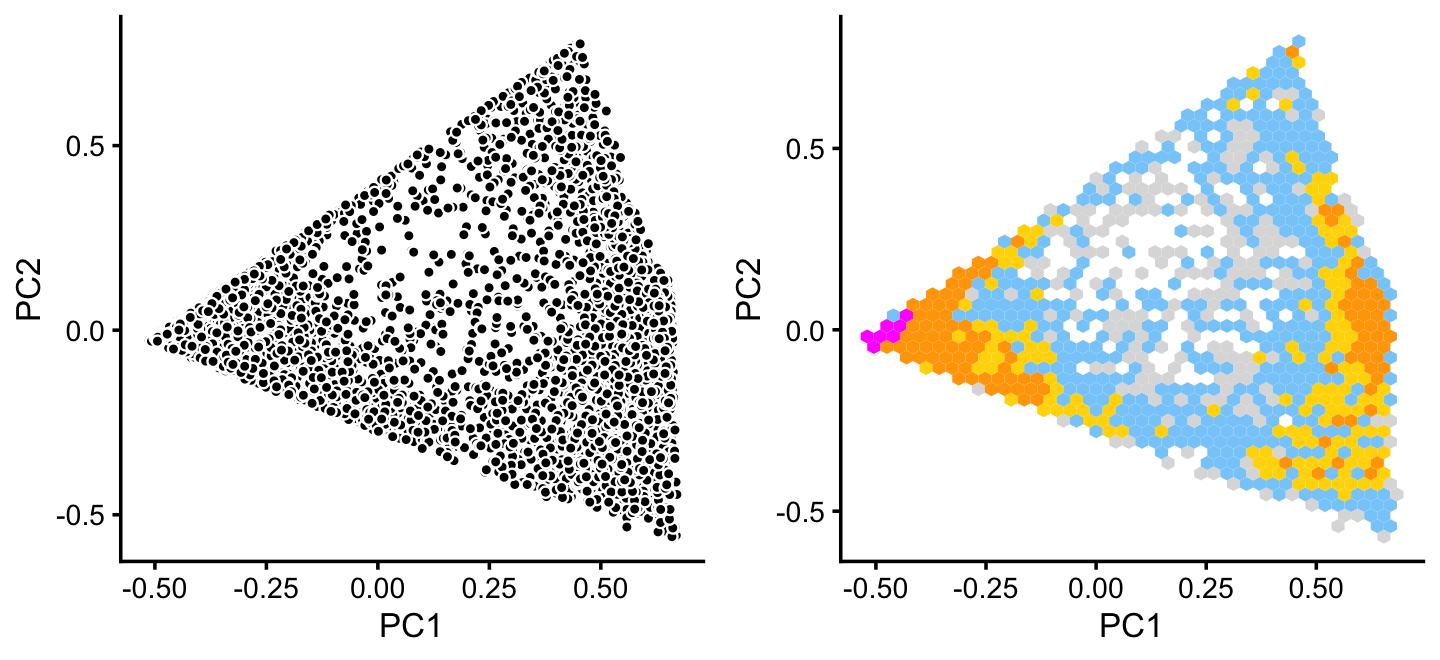
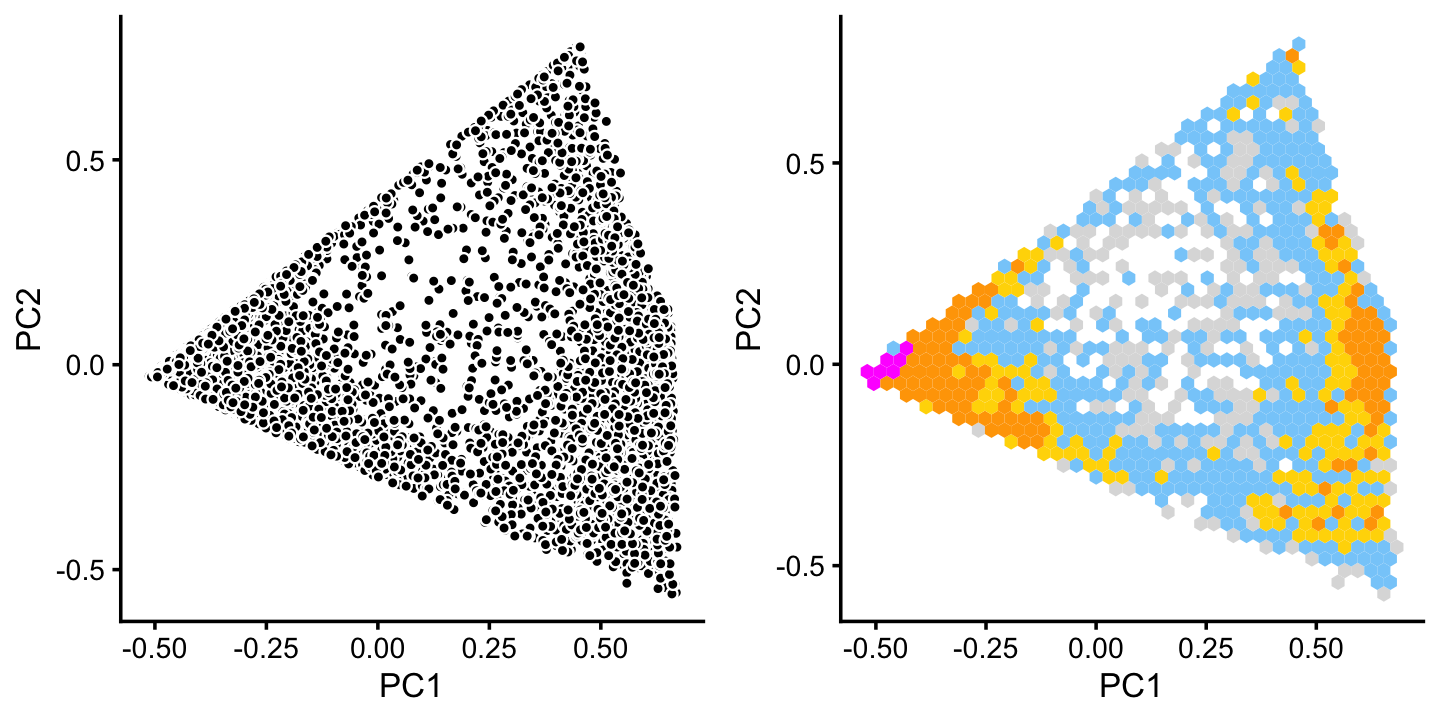
Adjusted the plots in clusters_droplet analysis.

diff --git a/docs/clusters_droplet.html b/docs/clusters_droplet.html
@@ -414,22 +414,23 @@ This reproducible <a href="http://rmarkdown.rstudio.com">R Markdown</a> analysis
 <div class="panel panel-default">
 <div class="panel-heading">
 <p class="panel-title">
-<a data-toggle="collapse" data-parent="#workflowr-checks" href="#strongRepositoryversionstrongahrefhttpsgithubcomstephenslabsinglecelltopicstreeba90d80ea27ae477a88f163d39168e4899633622targetblankba90d80a"> <span class="glyphicon glyphicon-ok text-success" aria-hidden="true"></span> <strong>Repository version:</strong> <a href="https://github.com/stephenslab/single-cell-topics/tree/ba90d80ea27ae477a88f163d39168e4899633622" target="_blank">ba90d80</a> </a>
+<a data-toggle="collapse" data-parent="#workflowr-checks" href="#strongRepositoryversionstrongahrefhttpsgithubcomstephenslabsinglecelltopicstree7830b35c5dfc1d2d27060e5c2f85c7abaf784745targetblank7830b35a"> <span class="glyphicon glyphicon-ok text-success" aria-hidden="true"></span> <strong>Repository version:</strong> <a href="https://github.com/stephenslab/single-cell-topics/tree/7830b35c5dfc1d2d27060e5c2f85c7abaf784745" target="_blank">7830b35</a> </a>
 </p>
 </div>
[2 lines of base64/hex data omitted]
 <div class="panel-body">
 <p>
 Great! You are using Git for version control. Tracking code development and connecting the code version to the results is critical for reproducibility.
 </p>
 <p>
-The results in this page were generated with repository version <a href="https://github.com/stephenslab/single-cell-topics/tree/ba90d80ea27ae477a88f163d39168e4899633622" target="_blank">ba90d80</a>. See the <em>Past versions</em> tab to see a history of the changes made to the R Markdown and HTML files.
+The results in this page were generated with repository version <a href="https://github.com/stephenslab/single-cell-topics/tree/7830b35c5dfc1d2d27060e5c2f85c7abaf784745" target="_blank">7830b35</a>. See the <em>Past versions</em> tab to see a history of the changes made to the R Markdown and HTML files.
 </p>
 <p>
 Note that you need to be careful to ensure that all relevant files for the analysis have been committed to Git prior to generating the results (you can use <code>wflow_publish</code> or <code>wflow_git_commit</code>). workflowr only checks the R Markdown file, but you know if there are other scripts or data files that it depends on. Below is the status of the Git repository when the results were generated:
 </p>
 <pre><code>
 Ignored files:
+    Ignored:    analysis/figure/
     Ignored:    data/droplet.RData
     Ignored:    data/pbmc_68k.RData
     Ignored:    data/pbmc_purified.RData
@@ -444,7 +445,7 @@ Ignored files:
     Ignored:    output/pulseseq/rds/
 
 Unstaged changes:
-    Modified:   analysis/clusters_pulseseq.Rmd
+    Modified:   code/plots.R
 
 </code></pre>
 <p>
@@ -483,6 +484,40 @@ Message
 </tr>
 </thead>
 <tbody>
+<tr>
+<td>
+Rmd
+</td>
+<td>
+<a href="https://github.com/stephenslab/single-cell-topics/blob/7830b35c5dfc1d2d27060e5c2f85c7abaf784745/analysis/clusters_droplet.Rmd" target="_blank">7830b35</a>
+</td>
+<td>
+Peter Carbonetto
+</td>
+<td>
+2020-09-19
+</td>
+<td>
+workflowr::wflow_publish(“clusters_droplet.Rmd”)
+</td>
+</tr>
+<tr>
+<td>
+html
+</td>
+<td>
+<a href="https://rawcdn.githack.com/stephenslab/single-cell-topics/311b4e8f0de36c046e249e00f893c8a2b7721f81/docs/clusters_droplet.html" target="_blank">311b4e8</a>
+</td>
+<td>
+Peter Carbonetto
+</td>
+<td>
+2020-09-19
+</td>
+<td>
+Made a few minor improvements to the clusters_droplet analysis.
+</td>
+</tr>
 <tr>
 <td>
 Rmd
@@ -672,7 +707,7 @@ x[pc2 &gt; -0.15] &lt;- &quot;A&quot;
 x[pc1 &gt; 0.3 &amp; pc2 &lt; -0.75] &lt;- &quot;Cil&quot;
 x[pc1 &lt;= 0.3 &amp; pc2 &gt;= -0.75 &amp; pc2 &lt; -0.4] &lt;- &quot;T+N&quot;
 x[pc6 &lt; -0.05] &lt;- &quot;G&quot;</code></pre>
-<p>There is additional substructure in cluster A, which is more apparent from the top 2 PCs computed from cluster A only.</p>
+<p>There is additional substructure in cluster A, which is more apparent in the projection onto the top 2 PCs computed from cluster A only.</p>
 <pre class="r"><code>rows &lt;- which(x == &quot;A&quot;)
 fit2 &lt;- select(poisson2multinom(fit),loadings = rows)
 p7   &lt;- basic_pca_plot(fit2,1:2)
@@ -703,6 +738,17 @@ Date
 <tbody>
 <tr>
 <td>
+<a href="https://github.com/stephenslab/single-cell-topics/blob/311b4e8f0de36c046e249e00f893c8a2b7721f81/docs/figure/clusters_droplet.Rmd/clustering-4-1.png" target="_blank">311b4e8</a>
+</td>
+<td>
+Peter Carbonetto
+</td>
+<td>
+2020-09-19
+</td>
+</tr>
+<tr>
+<td>
 <a href="https://github.com/stephenslab/single-cell-topics/blob/b1cb82e4b0ce2e1db51ebb5f3a34a91178fe9dc3/docs/figure/clusters_droplet.Rmd/clustering-4-1.png" target="_blank">b1cb82e</a>
 </td>
 <td>
@@ -725,13 +771,50 @@ y[pc1 &lt; 0.1] &lt;- &quot;B&quot;
 y[pc1 &gt; 0.4 &amp; pc2 &lt; 0.45] &lt;- &quot;C&quot;
 x[rows] &lt;- y</code></pre>
 <p>In summary, we have subdivided the droplet data into 6 subsets, which includes a background cluster (U).</p>
-<pre class="r"><code>colors &lt;- c(&quot;royalblue&quot;,&quot;forestgreen&quot;,&quot;firebrick&quot;,&quot;darkmagenta&quot;,
-            &quot;darkorange&quot;,&quot;peru&quot;,&quot;gainsboro&quot;)
-p9  &lt;- labeled_pca_plot(fit,1:2,x,colors)
-p10 &lt;- labeled_pca_plot(fit,3:4,x,colors)
-p11 &lt;- labeled_pca_plot(fit,5:6,x,colors)
+<pre class="r"><code>colors &lt;- c(&quot;royalblue&quot;,&quot;forestgreen&quot;,&quot;firebrick&quot;,&quot;gold&quot;,&quot;darkorange&quot;,
+            &quot;gainsboro&quot;)
+p9  &lt;- labeled_pca_plot(fit,1:2,x,colors,font_size = 8)
+p10 &lt;- labeled_pca_plot(fit,3:4,x,colors,font_size = 8)
+p11 &lt;- labeled_pca_plot(fit,5:6,x,colors,font_size = 8)
 plot_grid(p9,p10,p11,nrow = 1,ncol = 3)</code></pre>
 <p><img src="figure/clusters_droplet.Rmd/clustering-6-1.png" width="960" style="display: block; margin: auto;" /></p>
+<p>
+<button type="button" class="btn btn-default btn-xs btn-workflowr btn-workflowr-fig" data-toggle="collapse" data-target="#fig-clustering-6-1">
+Past versions of clustering-6-1.png
+</button>
+</p>
+<div id="fig-clustering-6-1" class="collapse">
+<div class="table-responsive">
+<table class="table table-condensed table-hover">
+<thead>
+<tr>
+<th>
+Version
+</th>
+<th>
+Author
+</th>
+<th>
+Date
+</th>
+</tr>
+</thead>
+<tbody>
+<tr>
+<td>
+<a href="https://github.com/stephenslab/single-cell-topics/blob/311b4e8f0de36c046e249e00f893c8a2b7721f81/docs/figure/clusters_droplet.Rmd/clustering-6-1.png" target="_blank">311b4e8</a>
+</td>
+<td>
+Peter Carbonetto
+</td>
+<td>
+2020-09-19
+</td>
+</tr>
+</tbody>
+</table>
+</div>
+</div>
 <p>The clusters identified here correspond well to the Montoro <em>et al</em> (2018) clustering, with some exceptions (e.g., we do not identify an ionocytes cluster, and the neuroendocrine and tuft cells are included in the same cluster).</p>
 <pre class="r"><code>samples$cluster &lt;- factor(x)
 with(samples,table(tissue,cluster))
